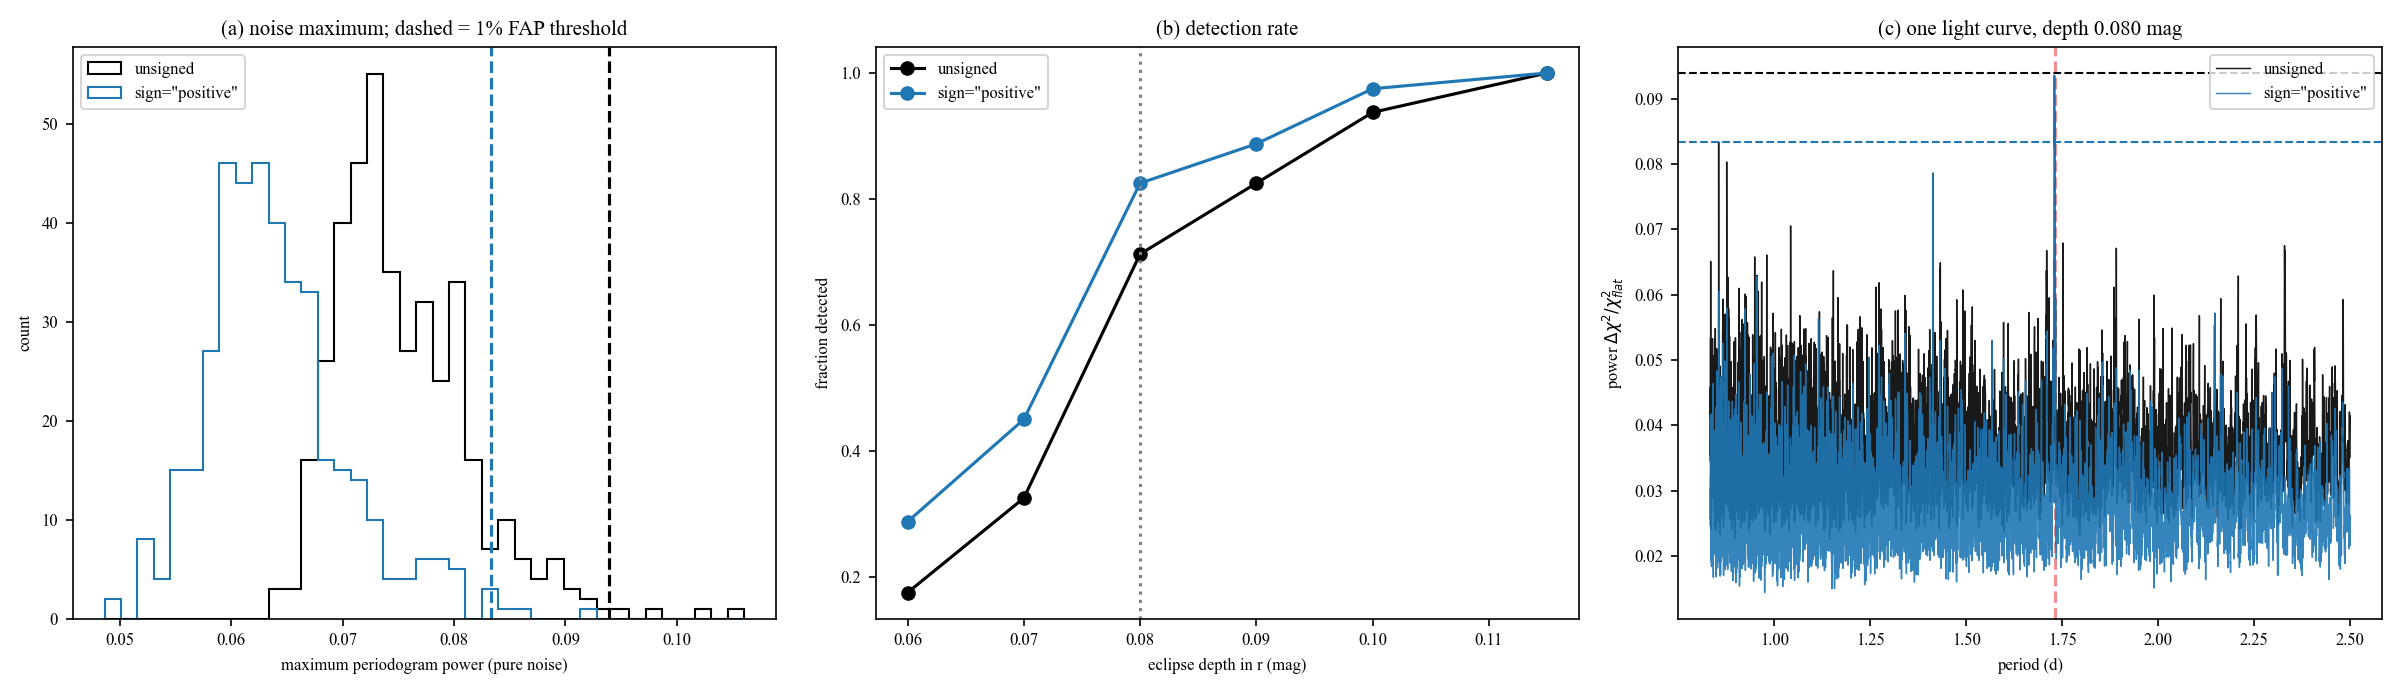
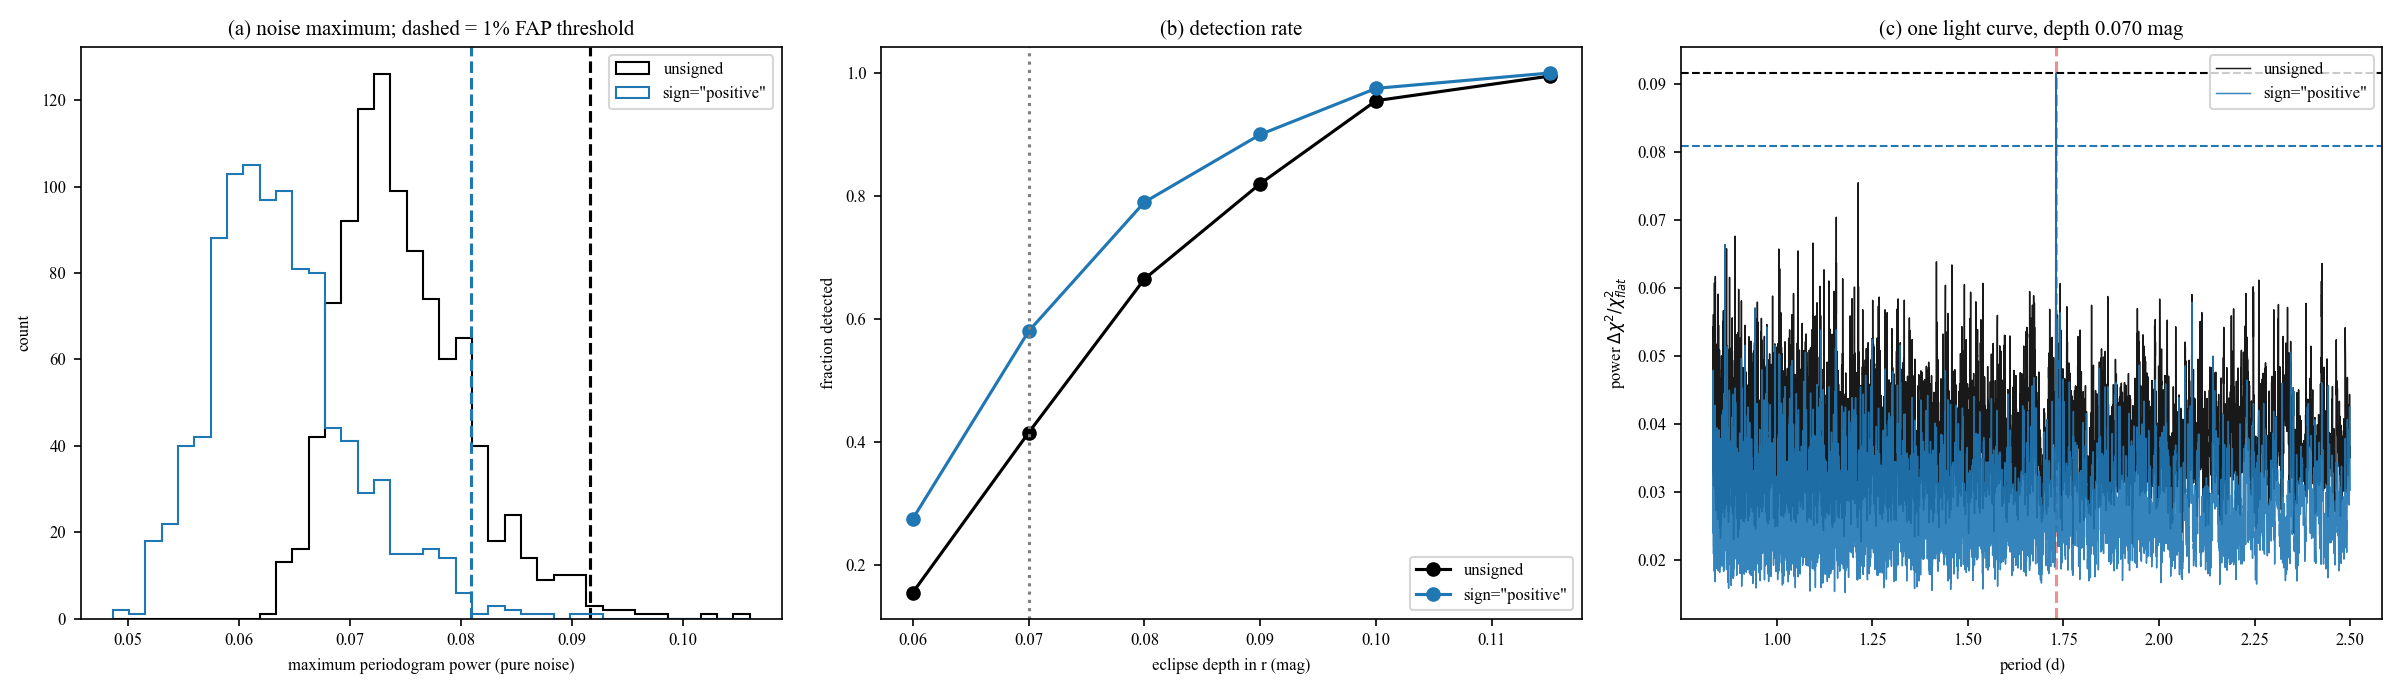
Run detectability example on the GPU with more Monte Carlo trials
Claude-Session: https://claude.ai/code/session_016rcWHcxfohwNBAyyHv5SDW

diff --git a/examples/signed_detectability.py b/examples/signed_detectability.py
@@ -21,7 +21,7 @@ import matplotlib.pyplot as plt
 import numpy as np
 import numpy.typing as npt
 
-from multiband_bls import multiband_eebls_fast
+from multiband_bls import gpu_available, multiband_eebls_fast, multiband_eebls_gpu_fast
 
 logging.basicConfig(level=logging.INFO, format="%(message)s")
 log = logging.getLogger("signed_detect")
@@ -32,7 +32,7 @@ P_ECL, Q_ECL, SIGMA, BASE = 1.7305, 0.05, 0.05, 20.0
 CHROM = {"u": 1.6, "g": 1.3, "r": 1.0, "i": 0.8, "z": 0.6, "y": 0.5}   # relative depths
 NVIS = {"u": 40, "g": 60, "r": 120, "i": 120, "z": 100, "y": 100}
 FREQS = np.arange(0.40, 1.20, 5e-5)
-N_NOISE, N_TRIAL, FAP = 400, 80, 0.01
+N_NOISE, N_TRIAL, FAP = 1000, 200, 0.01
 DEPTHS = (0.060, 0.070, 0.080, 0.090, 0.100, 0.115)     # r-band depth (mag)
 NT = os.cpu_count() or 1
 OUT = Path(__file__).with_name("signed_detectability.png")
@@ -50,6 +50,9 @@ def make_bands(rng: np.random.Generator, depth: float) -> Bands:
 
 
 def search(bands: Bands, sign: str) -> Array:
+    if gpu_available():
+        return multiband_eebls_gpu_fast(bands, FREQS, q_min=0.03, q_max=0.08, sign=sign,
+                                        compute_n_bands_used=False).power
     return multiband_eebls_fast(bands, FREQS, q_min=0.03, q_max=0.08, sign=sign,
                                 n_threads=NT).power
 
